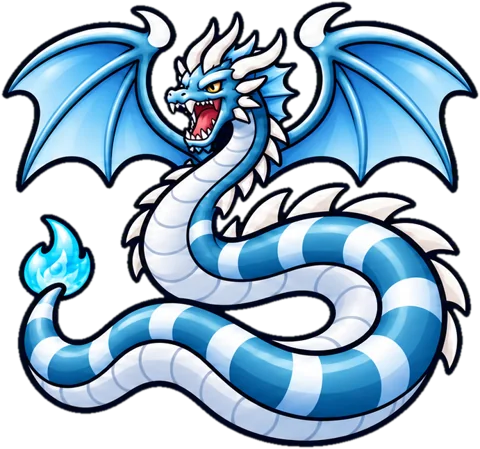
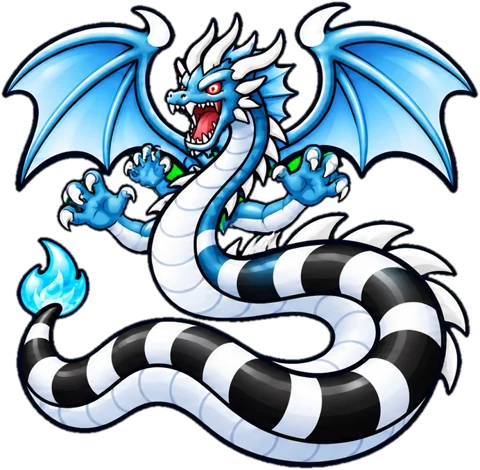
Batch 12: updated hydrell

diff --git a/batch12.html b/batch12.html
@@ -1,5 +1,5 @@
 <!doctype html><html lang="en"><head><meta charset="utf-8"><meta name="viewport" content="width=device-width,initial-scale=1"><meta name="robots" content="noindex,nofollow"><title>Redesign batch 12 | Kimuro Tales</title><link rel="stylesheet" href="style.css"><style>.ba{display:flex;gap:24px;flex-wrap:wrap}.ba small{font-weight:800;color:var(--muted)}.row{display:flex;gap:6px;background:#fff;border:2px solid var(--line);border-radius:18px;padding:8px}.row img{width:140px;height:140px;object-fit:contain}.opts{display:flex;gap:14px;flex-wrap:wrap;margin-top:10px}.opts label{font-weight:700;cursor:pointer}textarea{width:100%;margin-top:8px;font:inherit;border:2px solid var(--line);border-radius:12px;padding:8px}.bar{position:sticky;top:0;z-index:5;background:var(--card);border-bottom:3px solid var(--gold);padding:10px 0}.bar .wrap{display:flex;gap:10px;align-items:center;flex-wrap:wrap}#out{display:none;width:100%;height:220px}.rv.done{border-color:#14b8a6}@media(max-width:640px){.row img{width:30vw;height:30vw}}</style></head><body><div class="bar"><div class="wrap"><b>Redesign batch 12</b><span id="prog"></span><button class="btn" id="exp">Export my decisions</button><button class="btn alt" id="clr">Clear</button></div></div><div class="wrap"><div class="hero"><h1>Redesign batch 12</h1><p>Drafts only. The Kimurodex still shows the old art. Approve, ask for changes, or keep the old one, then press <b>Export my decisions</b> and paste the text to Claude. (Hidden from search engines, but anyone with the address can open it.)</p></div><textarea id="out" readonly></textarea><section class="block rv" data-id="N-hydrell"><h3>Tidrop / Hydrofen / Typhdrake</h3><p dir="rtl" style="margin:2px 0 8px;color:var(--muted)">בלי כתר, כנפיים גדולות ובולטות, דרקון מים אימתני</p><div class="ba"><div><small>Website now</small><div class="row"><img src="img/p/hydrell_1.webp" alt=""><img src="img/p/hydrell_2.webp" alt=""><img src="img/p/hydrell_3.webp" alt=""></div></div><div><small>New</small><div class="row"><img src="img/b12/hydrell_1.webp" alt=""><img src="img/b12/hydrell_2.webp" alt=""><img src="img/b12/hydrell_3.webp" alt=""></div></div></div><div class="opts"><label><input type="radio" name="N-hydrell" value="approve"> Approve</label><label><input type="radio" name="N-hydrell" value="adjust"> Adjust (write what to change)</label><label><input type="radio" name="N-hydrell" value="keep_old"> Keep the old one</label></div><textarea placeholder="Notes (any language)" rows="2"></textarea></section><section class="block rv" data-id="N-stellix"><h3>Starlet / Stellix / Cosmara</h3><p dir="rtl" style="margin:2px 0 8px;color:var(--muted)">עיצוב מחדש של שלבים 2-3 (שלב 1 נשאר)</p><div class="ba"><div><small>Website now</small><div class="row"><img src="img/p/stellix_1.webp" alt=""><img src="img/p/stellix_2.webp" alt=""><img src="img/p/stellix_3.webp" alt=""></div></div><div><small>New</small><div class="row"><img src="img/b12/stellix_1.webp" alt=""><img src="img/b12/stellix_2.webp" alt=""><img src="img/b12/stellix_3.webp" alt=""></div></div></div><div class="opts"><label><input type="radio" name="N-stellix" value="approve"> Approve</label><label><input type="radio" name="N-stellix" value="adjust"> Adjust (write what to change)</label><label><input type="radio" name="N-stellix" value="keep_old"> Keep the old one</label></div><textarea placeholder="Notes (any language)" rows="2"></textarea></section></div><script>
-const K='kimuro-b12-v2';let S={};try{S=JSON.parse(localStorage.getItem(K)||'{}')}catch(e){}
+const K='kimuro-b12-v3';let S={};try{S=JSON.parse(localStorage.getItem(K)||'{}')}catch(e){}
 const secs=[...document.querySelectorAll('.rv')];const has=s=>S[s.dataset.id]&&(S[s.dataset.id].d||S[s.dataset.id].n);
 function save(){try{localStorage.setItem(K,JSON.stringify(S))}catch(e){};prog()}
 function prog(){document.getElementById('prog').textContent=secs.filter(has).length+' / '+secs.length+' reviewed';secs.forEach(s=>s.classList.toggle('done',!!has(s)))}
